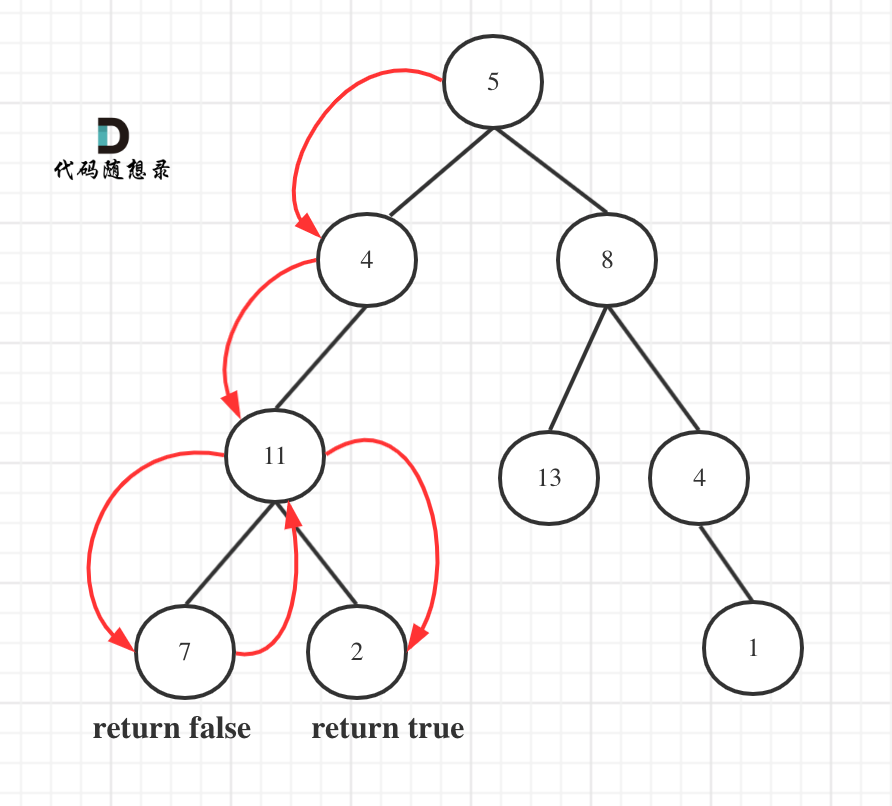
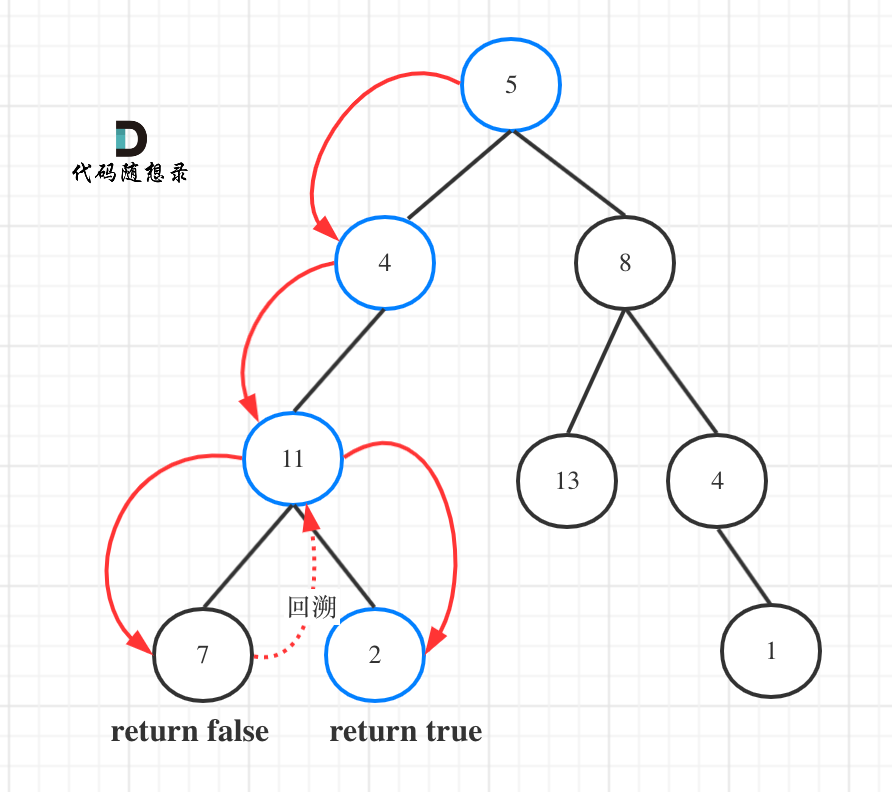
Update

diff --git a/problems/0112.路径总和.md b/problems/0112.路径总和.md
@@ -1,29 +1,41 @@
 ## 题目地址 
 
+> 递归函数什么时候需要返回值
+
 # 112. 路径总和
 
-## 思路 
+给定一个二叉树和一个目标和，判断该树中是否存在根节点到叶子节点的路径，这条路径上所有节点值相加等于目标和。
 
-相信大家看到千篇一律的写法：
-```
-class Solution {
-public:
-    bool hasPathSum(TreeNode* root, int sum) {
-        if (root == NULL) return false;
-        if (!root->left && !root->right && sum == root->val) {
-            return true;
-        }
-        return hasPathSum(root->left, sum - root->val) || hasPathSum(root->right, sum - root->val);
-    }
-};
-```
-**这种写法简短是简短，但其实对于读者理解不是很友好，没有很好的体现出递归的顺序已经背后的回溯。**
+说明: 叶子节点是指没有子节点的节点。
 
-**相信很多同学都疑惑递归的过程中究竟什么时候需要返回值，什么时候不需要返回值？**
+示例: 
+给定如下二叉树，以及目标和 sum = 22，
+
+<img src='../pics/112.路径总和1.png' width=600> </img></div>
+
+返回 true, 因为存在目标和为 22 的根节点到叶子节点的路径 5->4->11->2。
+
+# 思路 
+
+这道题我们要遍历从根节点到叶子节点的的路径看看总和是不是目标和。
+
+## 递归
+
+可以使用深度优先遍历的方式（本题前中后序都可以，无所谓，因为中节点也没有处理逻辑）来遍历二叉树
+
+1. 确定递归函数的参数和返回类型
+
+参数：需要二叉树的根节点，还需要一个计数器，这个计数器用来计算二叉树的一条边之和是否正好是目标和，计数器为int型。
+
+**再来看返回值，递归函数什么时候需要返回值？什么时候不需要返回值？**
+
+在文章[二叉树：我的左下角的值是多少？](https://mp.weixin.qq.com/s/MH2gbLvzQ91jHPKqiub0Nw)中，我给出了一个结论：
 
 **如果需要搜索整颗二叉树，那么递归函数就不要返回值，如果要搜索其中一条符合条件的路径，递归函数就需要返回值，因为遇到符合条件的路径了就要及时返回。**
 
-而本题就要要搜索一条路径，使其上所有节点值相加等于目标和，所以递归需要返回值！ 
+在[二叉树：我的左下角的值是多少？](https://mp.weixin.qq.com/s/MH2gbLvzQ91jHPKqiub0Nw)中，因为要遍历树的所有路径，找出深度最深的叶子节点，所以递归函数不要返回值。
+
+而本题我们要找一条符合条件的路径，所以递归函数需要返回值，及时返回，那么返回类型是什么呢？
 
 如图所示：
 
@@ -31,41 +43,55 @@ public:
 
 图中可以看出，遍历的路线，并不要遍历整棵树，所以递归函数需要返回值，可以用bool类型表示。
 
-那么使用深度优先遍历的方式（本题前中后序都可以，无所谓）来遍历二叉树，如下代码我尽量将每一步清晰的表现出来，C++代码如下：
+所以代码如下：
 
 ```
-class Solution {
-private:
-    bool traversal(TreeNode* cur, int count) {
-        if (!cur->left && !cur->right && count == 0) return true; // 遇到叶子节点，并且计数为0
-        
-        if (!cur->left && !cur->right) return false; // 遇到叶子节点而没有找到合适的边，直接返回
-
-        if (cur->left) { // 左 （空节点不遍历）
-            // 遇到叶子节点返回true，则直接返回true
-            if (traversal(cur->left, count - cur->left->val)) return true;
-        }
-        if (cur->right) { // 右 （空节点不遍历）
-            // 遇到叶子节点返回true，则直接返回true
-            if (traversal(cur->right, count - cur->right->val)) return true;
-        }
-        return false;
-    }
-
-public:
-    bool hasPathSum(TreeNode* root, int sum) {
-        if (root == NULL) return false;
-        return traversal(root, sum - root->val);
-    }
-};
+bool traversal(TreeNode* cur, int count)   // 注意函数的返回类型
 ```
 
 
-那么其实本题一定是有回溯的，没有回溯，如何后撤重新找另一条路径呢，但是貌似以上代码中，**大家貌似没有感受到回溯，那是因为回溯在代码里隐藏起来了。**
+2. 确定终止条件 
 
-隐藏在`traversal(cur->left, count - cur->left->val)`这里， 因为把`count - cur->left->val` 直接作为参数传进去，函数结束，count自然恢复到原先的数值了。
+首先计数器如何统计这一条路径的和呢？
 
-为了把回溯的过程体现出来，将`if (traversal(cur->left, count - cur->left->val)) return true;` 改为如下代码：
+不要去累加然后判断是否等于目标和，那么代码比较麻烦，可以用递减，让计数器count初始为目标和，然后每次减去遍历路径节点上的数值。
+
+如果最后count == 0，同时到了叶子节点的话，说明找到了目标和。
+
+如果遍历到了叶子节点，count不为0，就是没找到。
+
+递归终止条件代码如下：
+
+```
+if (!cur->left && !cur->right && count == 0) return true; // 遇到叶子节点，并且计数为0
+if (!cur->left && !cur->right) return false; // 遇到叶子节点而没有找到合适的边，直接返回
+```
+
+3. 确定单层递归的逻辑 
+
+因为终止条件是判断叶子节点，所以递归的过程中就不要让空节点进入递归了。 
+
+递归函数是有返回值的，如果递归函数返回true，说明找到了合适的路径，应该立刻返回。
+
+代码如下：
+
+```
+if (cur->left) { // 左 （空节点不遍历）
+    // 遇到叶子节点返回true，则直接返回true
+    if (traversal(cur->left, count - cur->left->val)) return true; // 注意这里有回溯的逻辑
+}
+if (cur->right) { // 右 （空节点不遍历）
+    // 遇到叶子节点返回true，则直接返回true
+    if (traversal(cur->right, count - cur->right->val)) return true; // 注意这里有回溯的逻辑
+}
+return false;
+```
+
+以上代码中是包含着回溯的，没有回溯，如何后撤重新找另一条路径呢。
+
+回溯隐藏在`traversal(cur->left, count - cur->left->val)`这里， 因为把`count - cur->left->val` 直接作为参数传进去，函数结束，count的数值没有改变。
+
+为了把回溯的过程体现出来，可以改为如下代码：
 
 ```
 if (cur->left) { // 左
@@ -73,9 +99,16 @@ if (cur->left) { // 左
     if (traversal(cur->left, count)) return true;
     count += cur->left->val; // 回溯，撤销处理结果
 }
+if (cur->right) { // 右 
+    count -= cur->right->val;
+    if (traversal(cur->right, count - cur->right->val)) return true; 
+    count += cur->right->val;
+}
+return false;
 ```
 
-这样大家就能感受到回溯了，整体回溯代码如下：
+
+整体代码如下：
 
 ```
 class Solution {
@@ -105,9 +138,29 @@ public:
 };
 ```
 
+以上代码精简之后如下： 
+
+```
+class Solution {
+public:
+    bool hasPathSum(TreeNode* root, int sum) {
+        if (root == NULL) return false;
+        if (!root->left && !root->right && sum == root->val) {
+            return true;
+        }
+        return hasPathSum(root->left, sum - root->val) || hasPathSum(root->right, sum - root->val);
+    }
+};
+```
+
+**是不是发现精简之后的代码，已经完全看不出分析的过程了，所以我们要把题目分析清楚之后，在追求代码精简。** 这一点我已经强调很多次了！
+
+
+## 迭代 
+
 如果使用栈模拟递归的话，那么如果做回溯呢？ 
 
-此时栈里一个元素不仅要记录该节点指针，还要记录从头结点到该节点的路径数值总和。 
+**此时栈里一个元素不仅要记录该节点指针，还要记录从头结点到该节点的路径数值总和。** 
 
 C++就我们用pair结构来存放这个栈里的元素。
 
@@ -146,3 +199,85 @@ public:
     }
 };
 ```
+
+如果大家完全理解了本地的递归方法之后，就可以顺便把leetcode上113. 路径总和II做了。
+
+# 113. 路径总和II 
+
+给定一个二叉树和一个目标和，找到所有从根节点到叶子节点路径总和等于给定目标和的路径。
+
+说明: 叶子节点是指没有子节点的节点。
+
+示例:
+给定如下二叉树，以及目标和 sum = 22，
+
+
+<img src='../pics/113.路径总和II1.png' width=600> </img></div>
+
+## 思路
+
+113.路径总和II要遍历整个树，找到所有路径，**所以递归函数不要返回值！**
+
+如图：
+
+<img src='../pics/113.路径总和II.png' width=600> </img></div>
+
+
+为了尽可能的把细节体现出来，我写出如下代码（**这份代码并不简洁，但是逻辑非常清晰**）
+
+```
+class Solution {
+private:
+    vector<vector<int>> result;
+    vector<int> path;
+    // 递归函数不需要返回值，因为我们要遍历整个树
+    void traversal(TreeNode* cur, int count) {
+        if (!cur->left && !cur->right && count == 0) { // 遇到了叶子节点切找到了和为sum的路径
+            result.push_back(path);
+            return;
+        }
+
+        if (!cur->left && !cur->right) return ; // 遇到叶子节点而没有找到合适的边，直接返回
+
+        if (cur->left) { // 左 （空节点不遍历）
+            path.push_back(cur->left->val);
+            count -= cur->left->val;
+            traversal(cur->left, count);    // 递归
+            count += cur->left->val;        // 回溯
+            path.pop_back();                // 回溯
+        }
+        if (cur->right) { // 右 （空节点不遍历）
+            path.push_back(cur->right->val);
+            count -= cur->right->val;
+            traversal(cur->right, count);   // 递归
+            count += cur->right->val;       // 回溯
+            path.pop_back();                // 回溯
+        }
+        return ;
+    }
+
+public:
+    vector<vector<int>> pathSum(TreeNode* root, int sum) {
+        result.clear();
+        path.clear();
+        if (root == NULL) return result;
+        path.push_back(root->val); // 把根节点放进路径
+        traversal(root, sum - root->val);
+        return result;
+    }
+};
+```
+
+至于113. 路径总和II 的迭代法我并没有写，用迭代方式记录所有路径比较麻烦，也没有必要，如果大家感兴趣的话，可以再深入研究研究。
+
+# 总结 
+
+本篇通过leetcode上112. 路径总和 和 113. 路径总和II 详细的讲解了 递归函数什么时候需要返回值，什么不需要返回值。
+
+这两道题目是掌握这一知识点非常好的题目，大家看完本篇文章再去做题，就会感受到搜索整棵树和搜索某一路径的差别。
+
+对于112. 路径总和，我依然给出了递归法和迭代法，这种题目其实用迭代法会复杂一些，能掌握递归方式就够了！
+
+今天是长假最后一天了，内容多一些，也是为了尽快让大家恢复学习状态，哈哈。
+
+加个油！

diff --git a/problems/0257.二叉树的所有路径.md b/problems/0257.二叉树的所有路径.md
@@ -207,6 +207,8 @@ public:
 
 那么在如上代码中，**貌似没有看到回溯的逻辑，其实不然，回溯就隐藏在`traversal(cur->left, path + "->", result);`中的 `path + "->"`。**  每次函数调用完，path依然是没有加上"->" 的，这就是回溯了。
 
+**如果这里还不理解的话，可以看这篇[二叉树：以为使用了递归，其实还隐藏着回溯](https://mp.weixin.qq.com/s/ivLkHzWdhjQQD1rQWe6zWA)，我这这篇中详细的解释了递归中如何隐藏着回溯。 **
+
 
 
 **综合以上，第二种递归的代码虽然精简但把很多重要的点隐藏在了代码细节里，第一种递归写法虽然代码多一些，但是把每一个逻辑处理都完整的展现了出来了。** 

diff --git a/README.md b/README.md
@@ -97,6 +97,7 @@
     * [还在玩耍的你，该总结啦！（本周小结之二叉树）](https://mp.weixin.qq.com/s/QMBUTYnoaNfsVHlUADEzKg)
     * [二叉树：以为使用了递归，其实还隐藏着回溯](https://mp.weixin.qq.com/s/ivLkHzWdhjQQD1rQWe6zWA)
     * [二叉树：做了这么多题目了，我的左叶子之和是多少？](https://mp.weixin.qq.com/s/gBAgmmFielojU5Wx3wqFTA)
+    * [二叉树：我的左下角的值是多少？](https://mp.weixin.qq.com/s/MH2gbLvzQ91jHPKqiub0Nw)
 
  
 

diff --git a/problems/0113.路径总和II.md b/problems/0113.路径总和II.md
@@ -18,7 +18,7 @@
 
 如图：
 
-<img src='../pics/107.二叉树的层次遍历II.png' width=600> </img></div>
+<img src='../pics/113.路径总和II.png' width=600> </img></div>
 
 
 这道题目其实比[112. 路径总和](https://leetcode-cn.com/problems/path-sum/)简单一些，大家做完了本题，可以在做[112. 路径总和](https://leetcode-cn.com/problems/path-sum/)。

diff --git a/problems/0131.分割回文串.md b/problems/0131.分割回文串.md
@@ -135,7 +135,7 @@ private:
             } else { // 如果不是则直接跳过
                 continue;
             }
-            backtracking(s, i + 1, path); // 寻找i+1为起始位置的子串
+            backtracking(s, i + 1); // 寻找i+1为起始位置的子串
             path.pop_back(); // 回溯过程，弹出本次已经填在的子串
         }
     }
